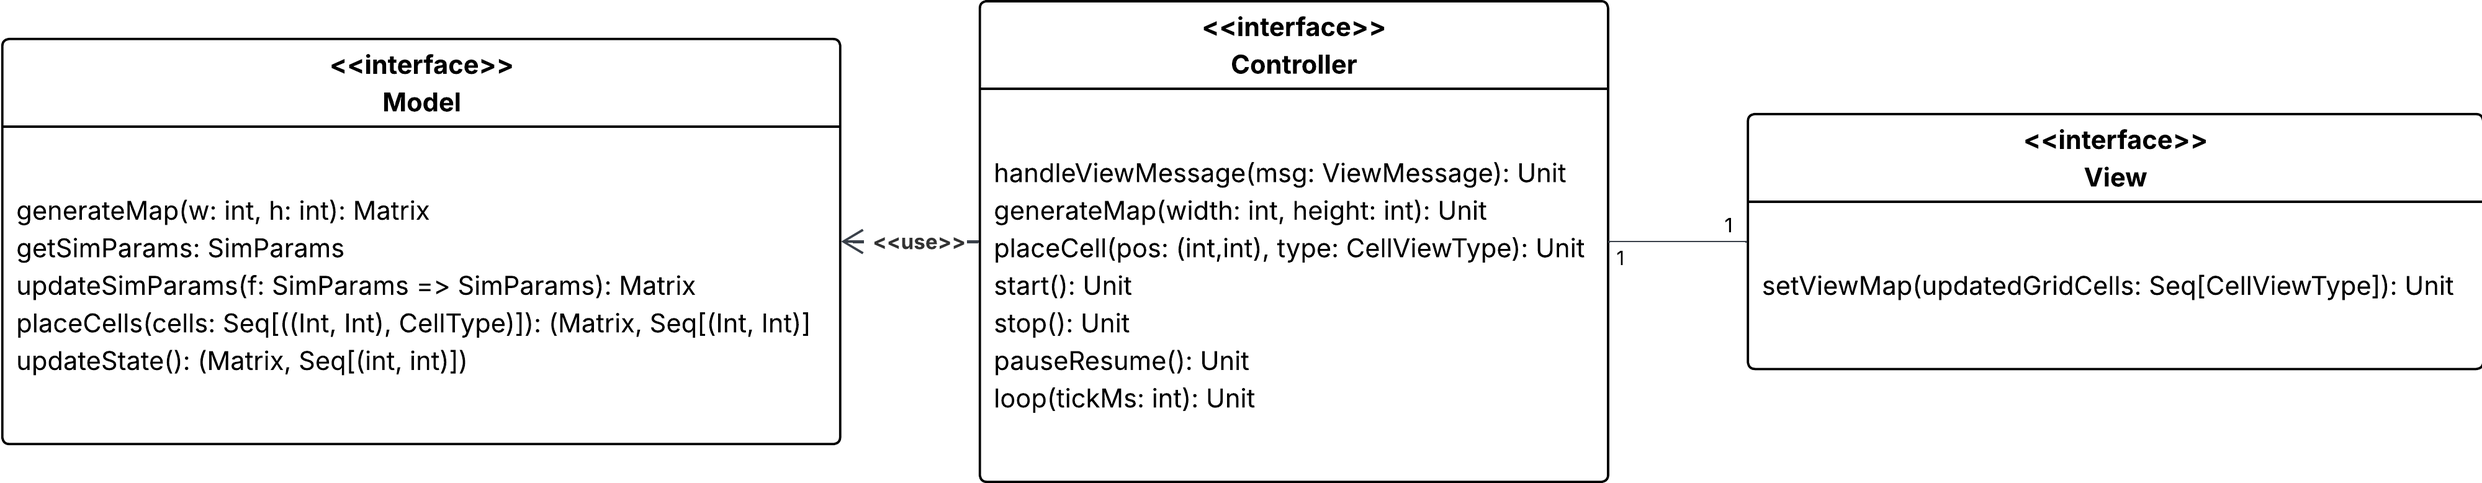
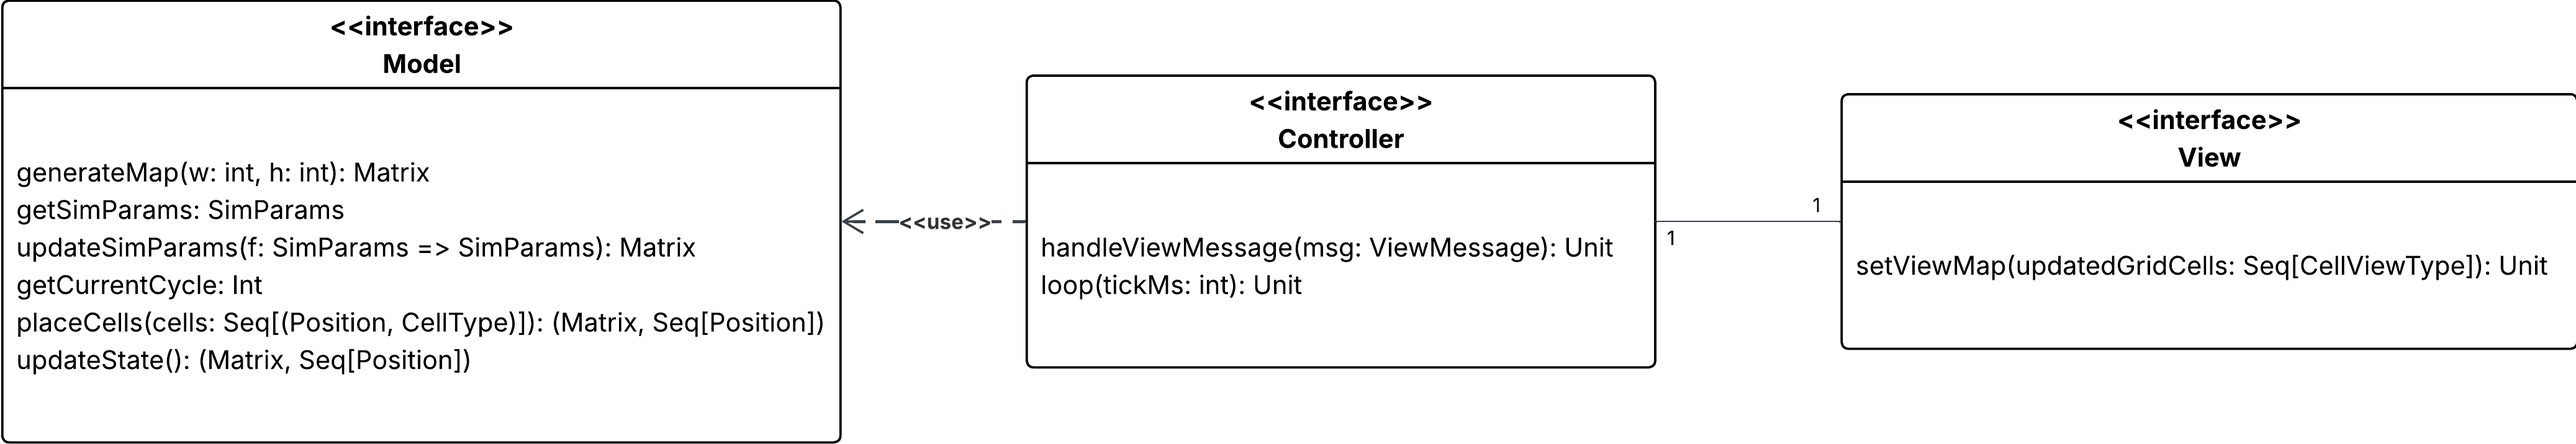
docs: UML + review

diff --git a/2-requirements/index.md b/2-requirements/index.md
@@ -4,8 +4,8 @@
    L'obiettivo è creare un simulatore configurabile e visivamente intuitivo per analizzare la dinamica degli incendi boschivi.
    Il software deve servire come strumento educativo e di analisi, permettendo di comprendere l'impatto di variabili ambientali e strategie di contrasto sulla propagazione di un incendio.
 
-   Il modello deve permettere l’osservazione dell’evoluzione dell’incendio in una foresta semplificata, sotto l’influenza di parametri ambientali (come vento, temperatura, umidità).
-   Inoltre deve considerare i meccanismi di contrasto quali agenti di intervento contro l’incendio (vigili del fuoco) e possibili linee di frangifuoco definite dall’utente.
+   Il modello deve permettere l’osservazione dell’evoluzione semplificata di un incendio in una foresta, sotto l’influenza di parametri ambientali (come vento, temperatura, umidità).
+   Inoltre deve considerare i meccanismi di contrasto quali i vigili del fuoco contro l’incendio e possibili linee di frangifuoco definite dall’utente.
 
    La mappa generata dovrà essere personalizzabile prima dell'inizio della simulazione, per poter modellare determinati biomi.
    I parametri saranno modificabili anche durante la simulazione, per poter modellare il cambiamento di essi durante la propagazione dell'incendio.
@@ -16,7 +16,7 @@
 ## Modello di dominio
    Il dominio del sistema è composto dai seguenti concetti chiave:
 - Mappa: Una griglia 2D che rappresenta il territorio, composta da celle con tipi di terreno diversi.
-- Cella: L'unità atomica della mappa, rappresenta un tipo di terreno (es. boschivo, roccioso, acqua, in fiamme, bruciato, stazione, ecc.).
+- Cella: L'unità atomica della mappa, rappresenta un tipo di terreno (foresta, prato, barriera, stazione, acqua, in fiamme, bruciato, roccia).
 - Agente di contrasto: Un'entità (es. squadra di pompieri) che si muove sulla mappa partendo da una stazione per estinguere le celle in fiamme più vicine.
 - Parametri di simulazione: L'insieme delle variabili che influenzano la simulazione, tra cui vento (intensità e direzione), umidità e temperatura.
 
@@ -27,74 +27,91 @@
    1. Base rocciosa
    2. Cluster di tipo foresta per simulare gruppi di alberi (minimo 1)
    3. Contorni di tipo erba attorno alle foreste
-   4. Cluster di tipo acqua per simulare laghi
-   5. Stazioni che preferibilmente si ergono su terreni di tipo roccioso (minimo 1)
-3. Possibilità di ridimensionare la finestra GUI
-4. Personalizzazione della mappa generata prima dell'inizio della simulazione
-   1. Componenti UI che permettono la scelta del tipo di terreno da piazzare
+   4. Cluster di tipo acqua per simulare laghi (minimo 1)
+   5. Percorsi di tipo acqua per simulare fiumi (minimo 1)
+      1. Partendo dal centro dei laghi fino a toccare il bordo della mappa
+      2. Cambiando casualmente direzione e larghezza per creare forme verosimili
+   6. Stazioni che preferibilmente si ergono su terreni di tipo roccioso (minimo 1)
+3. Possibilità di ridimensionare la finestra GUI; la mappa si ridimensionerà dinamicamente
+4. Personalizzazione della mappa generata
+   1. Componente UI che permette la scelta del tipo di terreno da piazzare
+      1. Prima dell'inizio della simulazione i tipi di terreno: in fiamme, barriera, foresta, prato, roccia, acqua e stazione 
+      2. Dopo l'inizio della simulazione i tipi di terreno: in fiamme e barriera
    2. Utilizzo di strumenti di disegno
       1. Default: modifica di una singola cella tramite click
-      2. Strumento "linea": modifica di più celle su una linea (orizzontale, verticale o obliqua) dopo averne selezionato i 2 estremi
-      3. Strumento "pennello": Strumento "pennello": dopo il primo clic, modifica tutte le celle su cui passa il puntatore, fino a un secondo clic che disattiva lo strumento
+      2. Strumento "linea": modifica di più celle su una linea (orizzontale, verticale od obliqua) dopo averne selezionato i 2 estremi
+      3. Strumento "pennello": modifica tutte le celle su cui passa il puntatore con il click del mouse tenuto premuto
+   3. Quando l'utente seleziona uno strumento di disegno, gli altri devono essere disattivati e non selezionabili
 5. Personalizzazione dei parametri prima dell'inizio e durante la simulazione (direzione e intensità del vento, umidità, temperatura)
-6. Possibilità di avviare, mettere in pausa, riprendere e fermare la simulazione
-7. Rappresentazione grafica della simulazione in griglia 2D
+   1. Ogni parametro avrà uno slider dedicato, con accanto indicato il valore selezionato, modificabile in qualsiasi momento dall'utente
+6. Controlli per gestire il flusso temporale della simulazione
+   1. Un selettore per modificare della velocità (0.5x, 1x, 1.5x, 2x)
+   2. Un bottone per avviare la simulazione
+   3. Un bottone per mettere in pausa e riprendere la simulazione, in cui cambierà il testo a seconda dello stato attuale
+7. Quando la simulazione non è stata ancora avviata, i tasti per fermare/riprendere la simulazione e il selettore di velocità devono essere disattivati
+8. Quando la simulazione è avviata, il tasto per avviare la simulazione deve essere disattivato
+9. Rappresentazione grafica della simulazione in griglia 2D
    1. Rappresentazione dei diversi tipi di terreno con un determinato colore
-   2. Gli agenti di contrasto sono rappresentati anch'essi con un colore caratteristico, che sovrascrive il colore della cella su cui è posizionato
-8. Controllo del flusso temporale della simulazione (0.5x, 1x, 1.5x, 2x)
-9. Rappresentazione della corretta diffusione del fuoco
-   1. Solo i tipi di terreno infiammabili (boschivo, erboso) possono diventare _in fiamme_
-   2. Una cella che diventa _in fiamme_ ha 3 stadi del fuoco
-      1.  Si ha un primo stadio di ignezione in cui la probabilità di infuocare un'altra è abbastanza bassa
-      2.  Il secondo stadio è quello in cui il fuoco è più vivo ed ha una maggiore probabilità di infuocare
-         un'altra cella
-      3. L'ultimo stadio è quello in cui il fuoco ha meno probabilità di infuocare una cella vicina 
-   4. Dopo un certo tempo, una cella _in fiamme_ diventa bruciata senza possibilità di bruciare nuovamente
-      1. Il tipo di terreno boschivo brucierà più a lungo ma prenderà fuoco più difficilmente
-      2. Il tipo di terreno erboso brucierà per meno tempo ma prenderà fuoco più facilmente
-   5. All'aumentare della temperatura, la diffusione sarà più veloce
-   6. All'aumentare dell'umidità, la diffusione sarà più lenta
-   7. All'aumentare dei vicini in fiamme, aumentà la probabilità di prendere fuoco
-   8. All'aumentare dell'intensità del vento, la diffusione del fuoco sarà maggiore nella direzione del vento
-10. Le squadre di pompieri:
-    1. Si muovono verso celle infuocate che hanno attorno celle erboste o foreste, con l'obiettivo di proteggerle, dando la priorità a quelle più vicino alla loro stazione
-    2. Si muovono su tutta la mappa senza vincoli, in modo realistico seguendo visivamente la diagonale tra il punto in cui si trovano e l'obiettivo 
-    3. Una volta raggiunto l'obiettivo, spengono tutte le celle nell'intorno di quella su cui si trovano, a seconda del loro raggio di azione, consumando le proprie risorse
-    4. Dopo aver agito, le squadre di pompieri ritornano alla propria stazione per rifornirsi
+   2. I vigili di fuoco sono rappresentati anch'essi con uno specifico colore, che sovrascrive il colore della cella su cui è posizionato
+10. Rappresentazione della corretta diffusione del fuoco
+    1. Solo i tipi di terreno infiammabili (boschivo, erboso) possono diventare _in fiamme_
+    2. Una cella che diventa _in fiamme_ ha 3 stadi del fuoco
+       1.  Si ha un primo stadio di ignizione in cui la probabilità di infuocare un'altra è abbastanza bassa
+       2.  Il secondo stadio è quello in cui il fuoco è più vivo ed ha una maggiore probabilità di infuocare
+          un'altra cella
+       3. L'ultimo stadio è quello in cui il fuoco ha meno probabilità di infuocare una cella vicina 
+    3. Dopo un certo tempo, una cella _in fiamme_ diventa bruciata senza possibilità di bruciare nuovamente
+       1. Il tipo di terreno boschivo brucerà più a lungo ma prenderà fuoco più difficilmente
+       2. Il tipo di terreno erboso brucerà per meno tempo ma prenderà fuoco più facilmente
+    4. All'aumentare della temperatura, la diffusione sarà più veloce
+    5. All'aumentare dell'umidità, la diffusione sarà più lenta
+    6. All'aumentare dei vicini in fiamme, aumentà la probabilità di prendere fuoco
+    7. All'aumentare dell'intensità del vento, la diffusione del fuoco sarà maggiore nella direzione del vento
+11. Ogni cella stazione avrà un vigile del fuoco, adibito alla protezione dell'area circostante
+12. I vigili del fuoco:
+    1. Si muovono verso celle infuocate che hanno attorno celle erbose o foreste, con l'obiettivo di proteggerle, dando la priorità a quelle più vicine alla loro stazione
+    2. Si muovono su tutta la mappa senza vincoli (come unità aeree), seguendo visivamente la diagonale tra il punto in cui si trovano e l'obiettivo 
+    3. Si muovono indipendentemente, ognuno dando la priorità al terreno attorno alla sua stazione
+    4. Una volta raggiunto l'obiettivo, spengono tutte le celle nell'intorno di quella su cui si trovano, a seconda del loro raggio di azione, consumando le proprie risorse
+    5. Dopo aver agito, i vigili del fuoco ritornano alla propria stazione per rifornirsi
+    6. Se non sono presenti celle infuocate, ritornano alla propria stazione
 
 ### Sistema
 
 1. Generazione randomica della mappa a partire dalle dimensioni fornite
-   1. Limite inferiore per garantire i vincoli della generazione (minimo 1 foresta e 1 stazione)
+   1. Limite inferiore per garantire i vincoli della generazione (minimo 1 foresta, 1 stazione e 1 zona d'acqua)
    2. Limite superiore per poter mostrare correttamente la mappa nella sua interezza
+   3. Generazione di seeds per i vari tipi di terreno e sparsi nella mappa
+   4. Crescita dei cluster probabilistica a partire dai seed
+   5. Algoritmi di path finding con modifica casuale di direzione e larghezza per costruire fiumi realistici
 2. Propagazione del fuoco basandosi su un modello probabilistico e controllando le celle adiacenti a quelle _in fiamme_
    1. Esclusione delle celle non infiammabili
    2. Modifica della probabilità a seconda del tipo di terreno
    3. Modifica della probabilità a seconda dei parametri
 3. Utilizzo di un contatore interno per trasformare le celle _in fiamme_ in _bruciate_ dopo un certo tempo
-4. Gli agenti:
-   1. Si muovono a passi unitari, spostandosi in una delle 8-celle nell'intorno della posizione attuale (o restando fermi in caso non vi siano celle in fiamme)
-   2. Il movimento segue un algoritmo di rasterizzazione.
-   3. Si muovono verso la cella infuocata (con attorno celle erboste o foreste) più vicina alla propria stazione
-   4. Durante il movimento di un agente, l'obiettivo viene cambiato in caso celle infuocate più vicine alla stazione prendano fuoco
+4. I vigili del fuoco:
+   1. Si muovono a passi unitari, spostandosi in una delle 8-celle nell'intorno della posizione attuale
+   2. Il movimento segue un algoritmo di rasterizzazione
+   3. Partendo dalla stazione, si muovono verso la cella infuocata (con attorno celle erbose o foreste) più vicina alla propria stazione
+   4. Durante il movimento di un vigile del fuoco, l'obiettivo può essere cambiato dinamicamente in caso celle infuocate vicine alla stazione o alla posizione attuale prendano fuoco
 5. Le linee piazzate dall'utente seguono un algoritmo di rasterizzazione
 
 ## Requisiti non funzionali
 
-1. Performance: La simulazione deve essere fluida (almneno 30 TPS) su una mappa di dimensioni standard (almeno 100x100 celle) con un numero moderato di agenti.
-Requisiti minimi di 4GB di RAM, CPU Quad Core da 3.6 GHz
-2. Usabilità: L'interfaccia grafica (GUI) deve essere minimale ma intuitiva, permettendo un facile accesso a tutte le funzionalità di controllo della simulazione
-3. GUI reattiva
+1. Performance: La simulazione deve essere fluida (almeno 30 TPS) su una mappa di dimensioni standard (almeno 100x100 celle) 
+con un numero moderato di agenti (requisiti minimi: 4GB di RAM, CPU Quad Core da 3.6 GHz).
+2. Usabilità: L'interfaccia grafica (GUI) sarà minimale 
+3. GUI intuitiva per cui l'utente potrà fin da subito capire facilmente tutte le funzionalità di controllo della simulazione
+4. GUI reattiva senza grossi lag o delay tra input dell'utente e output a schermo
 
 ## Requisiti di implementazione
-1. Il progetto dovrà essere espandibile e modulare, permettendo l’aggiunta di ulteriori funzionalità
+1. Il progetto dovrà essere espandibile e modulare, facilitando l’aggiunta di ulteriori funzionalità
 2. Si dovrà garantire una separazione tra logica e interfaccia utente per agevolare future modifiche a queste, per cui il progetto seguirà il pattern MVC (Model-View-Controller)
 3. Il progetto sarà sviluppato interamente in Scala e testato con Scalatest 
 4. Si utilizzerà Swing per la creazione dell'interfaccia grafica
-5. Si seguierà il TDD (Test Driven Development)
+5. Si seguirà il TDD (Test Driven Development)
 6. Si userà Scalafix e Scala Formatter per controllare e mantenere uniformità nel codice.
-
-[//]: # (7. Si userà SCoverage per monitorare la copertura dei test. )
+7. Si userà SCoverage per monitorare la copertura dei test.
 
 
 [Indice](../index.md) |

diff --git a/4-design/index.md b/4-design/index.md
@@ -13,30 +13,47 @@ Controller e model sono stati pensati per gestire in modo ottimale i vari stati 
 
 
 ## Controller
-Il motore della simulazione è contenuto nella classe `SimController`, che gestisce il loop della simulazione. In questa classe sono mantenuti i parametri modificabili dall'utente tramite l'interfaccia grafica, come i parametri quali umidità, direzione e intensità del vento e temperatura. Nel momento in cui l'utente imposta le dimensioni della mappa il controller reagisce ordinando al model la generazione della mappa, che poi verrà renderizzata dalla view. L'utente, attraverso l'interfaccia grafica, può modificare celle della mappa dinamicamente, sia mentre la simulazione è in corso che nella fase precedente, utilizzata per definire la struttura della mappa. Ogni tipologia di cella è identificata da un'enumerazione sia nella view (`CellViewType`) che nel model (`CellType`), mantenute separate per garantire un isolamente tra view e model. Il controller, attraverso `CellTypeConverter` che si occupa di svolgere la conversione nel passaggio di informazioni tra view e model. Mentre la simulazione è in corso, il controller innesca aggiornamenti del model ad intervalli regolari; esso si occupa anche di ricevere e salvare temporaneamente gli input dell'utente, che verranno poi applicati all'aggiornamento successivo del model. Questo approccio alla ricezione di input permette di evitare inconsistenze dovute alla modifica di parametri nel model mentre un aggiornamento è in atto.
+Il motore della simulazione è contenuto nella classe `SimController`, che gestisce il main loop.
+In questa classe sono contenuti i metodi per permettere la modifica dei parametri da parte dell'utente tramite l'interfaccia grafica, quali umidità, direzione e intensità del vento e temperatura.
+Il cambiamento dei parametri avviene istantaneamente nel model, ma all'inizio di ogni avanzamento della simulazione il model salva una copia di questi parametri per evitare inconsistenze.
+Nel momento in cui l'utente imposta le dimensioni della mappa il controller reagisce ordinandone al model la generazione, per poi ordinare alla view di mostrarla.
+Attraverso l'interfaccia grafica, l'utente può modificare celle della mappa dinamicamente, sia prima dell'inizio che durante il corso della simulazione.
+Ogni tipologia di cella è identificata da un'enumerazione sia nella view (`CellViewType`) che nel model (`CellType`), mantenute separate per garantire isolamento.
+Il controller, attraverso `CellTypeConverter` si occupa di svolgere la conversione nel passaggio di informazioni tra view e model.
+Mentre la simulazione è in corso, il controller innesca aggiornamenti del model ad intervalli regolari.
+Inoltre si occupa di ricevere e mettere in coda le celle cambiate dall'utente nella personalizzazione della mappa.
+Queste celle verranno poi notificate al model prima dell'aggiornamento successivo.
+Questo approccio all'aggiornamento della mappa asincrono permette di evitare inconsistenze nel model mentre la simulazione sta avanzando.
 
-<!-- TODO: viene effettivamente  utilizzato? -->
-La comunicazione con la view avviene tramite il trait `ViewMessage`. Grazie al `Command Pattern`, la view può gestire in modo uniforme diversi tipi di input, come pulsanti per mettere in pausa o resettare la simulazione, o modifiche dei parametri. In questo modo, la view non chiama direttamente i metodi del controller, garantendo un disaccoppiamento chiaro e sicuro.
+La comunicazione con la view avviene utilizzando il trait `ViewMessage`.
+Grazie al `Command Pattern`, la view può gestire in modo uniforme diversi tipi di input, come pulsanti per mettere in pausa o resettare la simulazione, o modifiche dei parametri.
+In questo modo, la view non chiama direttamente i metodi del controller, garantendo un disaccoppiamento chiaro e sicuro.
 
 ## Model
-La mappa della simulazione è rappresentata attraverso una matrice di `CellType`. Quando l'utente sceglie le dimensioni della mappa una prima mappa è generata casualmente, inserendo aree boschive, laghi, aree erbose e stazioni dei pompieri. L'algoritmo di generazione della mappa è definito nella classe `MapBuilder`, che attraverso il pattern builder permette di generare la mappa dividendo le varie fasi dell'algoritmo (come la generazione di laghi, foreste ed aree erbose) ed evitando di avere un unico metodo monolitico. Il pattern builder è applicato anche ai pompieri, che vengono creati specificando il raggio di azione e la stazione in cui sono posizionati separatamente.
+La mappa della simulazione è rappresentata attraverso una matrice di `CellType`.
+Quando l'utente sceglie le dimensioni della mappa questa viene generata casualmente, inserendo aree boschive, rocciose, erbose, ma anche laghi, fiumi e stazioni dei pompieri.
+L'algoritmo di generazione della mappa è definito nella classe `MapBuilder`, che attraverso il pattern builder permette di generare la mappa dividendo le varie fasi dell'algoritmo (come la generazione di laghi, foreste ed aree erbose) ed evitando di avere un unico metodo monolitico. 
+Per ogni stazione presente nella mappa generata, vengono creati i vigili del fuoco specificando il raggio di azione e la stazione in cui sono posizionati separatamente, seguendo il pattern builder.
 
 Ogni ciclo di aggiornamento del model consiste in svariati passaggi:
-- Aggiornamento dei parametri ricevuti dal controller
-- Aggiornamento delle celle infuocate tramite l'algoritmo di diffusione del fuoco
+- Copia dei parametri di simulazione aggiornati dal controller
+- Aggiornamento delle celle infuocate e autonomamente spente tramite l'algoritmo di diffusione del fuoco
 - Aggiornamento della posizione dei vigili del fuoco e delle eventuali celle infuocate da loro spente
 
-I pompieri sono modellati come record monadici immutabili tramite la case class `FireFighter`, che vengono aggiornati sulla base delle celle infuocate correnti. Vi è la possibilità che una cella infuocata sia circondata da altre celle che non possono prendere fuoco (come celle già bruciate); in questi casi i vigili del fuoco dovrebbero ignorarle per dirigersi verso celle circondate da altre a rischio di incendio. Per gestire questo edge case i vigili del fuoco considerano solo queste ultime nella decisione delle loro azioni.  
+I pompieri sono modellati come record immutabili tramite la case class `FireFighter`, che vengono aggiornati sulla base delle celle infuocate correnti.
+Vi è la possibilità che una cella infuocata sia circondata da altre celle che non possono prendere fuoco (come celle già bruciate); in questi casi i vigili del fuoco dovrebbero ignorarle per dirigersi verso celle circondate da altre a rischio di incendio.
+Per gestire questo edge case i vigili del fuoco considerano solo queste ultime nella decisione delle loro azioni.  
 
-Ogni cella della griglia possiede una probabilità di accensione che dipende dal tipo di vegetazione associata(`Vegetation`). La propagazione del fuoco è modellata tramite più stadi di combustione rappresentati dall’enumerazione `FireStage` che vanno a differenziare la probabilità di incendiare una cella adiacente. 
+Ogni cella della griglia possiede una probabilità di accensione che dipende dal tipo di vegetazione associata(`Vegetation`).
+La propagazione del fuoco è modellata tramite più stadi di combustione rappresentati dall’enumerazione `FireStage` che vanno a differenziare la probabilità di incendiare una cella adiacente. 
 
-Il cuore del sistema della diffusione del fuoco è la funzione `fireSpread`, che ad ogni ciclo della simulazione calcola l'evoluzione della griglia. Questo processo è suddiviso in due fasi principali:
-- Aggiornamento delle celle in fiamme. Per ogni cella in combustione si verifica se la cella deve spegnersi attraverso l'uilizzo della `BurnDurationPolicy` che viene passata. Se la cella continua a bruciare, si controlla se può cambiare stadio di fuoco.
-- Propagazione verso i vicini. Per ogni cella vengono analizzati i vicini e viene prima calcolata la loro probabilità di igniezione attraverso una funzione `ProbabilityCalc`. La probabilità base può essere arricchita dinamicamente con effetti aggiuntivi, come vento o vicinanza a corpi d’acqua in direzione del vento, grazie a funzioni decorator che estendono il comportamento senza modificare la funzione originale.
+Il cuore del sistema della diffusione del fuoco è la funzione `fireSpread`, che ad ogni ciclo della simulazione calcola l'evoluzione della griglia.
+Questo processo è suddiviso in due fasi principali:
+- Aggiornamento delle celle in fiamme. Per ogni cella in combustione si verifica se la cella deve spegnersi attraverso l'utilizzo della `BurnDurationPolicy` che viene passata. Se la cella continua a bruciare, si controlla se può cambiare stadio di fuoco.
+- Propagazione verso i vicini. Per ogni cella vengono analizzati i vicini e viene prima calcolata la loro probabilità di ignizione attraverso una funzione `ProbabilityCalc`. La probabilità base può essere arricchita dinamicamente con effetti aggiuntivi, come vento o vicinanza a corpi d’acqua in direzione del vento, grazie a funzioni decorator che estendono il comportamento senza modificare la funzione originale.
 
 ## View
-L'interfaccia grafica mostra la mappa della simulazione aggiornata in tempo reale, con celle colorate con diversi colori a seconda del loro tipo o dell'entità che vi è posizionata.
-In particolare:
+L'interfaccia grafica mostra la mappa della simulazione aggiornata in tempo reale, convertendo i `CellViewType` offerti dal controller con celle colorate a seconda del tipo:
 - Rosso per il fuoco
 - Verde per le aree boschive
 - Verde chiaro per le aree erbose
@@ -49,27 +66,31 @@ L'utente ha a disposizione vari controlli per gestire lo stato di avanzamento de
 
 L'utente ha la possibilità di modificare celle della mappa selezionando il tipo di cella da inserire tramite una scelta multipla (che cambia dinamicamente nel momento in cui si comincia la simulazione) e cliccando sulla cella interessata. 
 
-Poiché l'applicazione prevede una fase iniziale di modifica della mappa, vi sono strumenti che permettono la modifica di molteplici celle della mappa, come uno strumento pennello per calorare le celle su cui passa il puntatore o uno strumento linea che permette di colorare una linea tra due punti, anche diagonale. 
+Poiché l'applicazione prevede una fase iniziale di modifica della mappa, vi sono strumenti che permettono la modifica di molteplici celle della mappa, come uno strumento pennello per colorare le celle su cui passa il puntatore o uno strumento linea che permette di colorare una linea tra due punti, anche diagonale. 
 
 
 ## Pattern di progettazione
 
-### Factory
-Il pattern factory è stato utilizzato in quanto supportato facilmente dai companion object, tramite i quali è possibile creare istanze in modo idiomatico nascondendo la complessità del processo di creazione.
-
 ### Strategy
-Il pattern strategy è stato utilizzando all'interno di `FireFighter` per separare l'algoritmo di movimento dal resto della classe e anche in `FireSpread` per separare il calcolo della probabilità di ignizione e della durata di combustione di una cella dal resto dell'avanzamento della gestione del fuoco.
+Il pattern strategy è stato utilizzato:
+ - All'interno di `FireFighter` per separare l'algoritmo di movimento dal resto della classe
+ - In `FireSpread` per separare il calcolo della probabilità di ignizione e della durata di combustione di una cella dal resto dell'avanzamento della gestione del fuoco
+ - In `SimModel` per separare l'algoritmo di generazione della mappa e per facilitare lo sviluppo di algoritmi diversi da quello base, come mostrato nell'UML di seguito:
+
+![Esempio di utilizzo di pattern strategy](../img/strategy.png)
+
 
 ### Builder
-Il pattern builder è stato utilizzato per facilitare la creazione di `FireFighter`, la generazione della mappa nel `SimModel` e per comporre la funzione per il calcolo della probabilità di igniezione di una cella.
+Il pattern builder è stato utilizzato:
+ - Per facilitare la creazione di `FireFighter`
+ - Per facilitare la generazione della mappa nel `SimModel`
+ - Per comporre la funzione di calcolo della probabilità di ignizione di una cella
 
 ### Command
 Il pattern command è stato utilizzato nel controller per gestire la ricezione di input dalla view.
 
 ### Decorator
 Il pattern Decorator è stato utilizzato per estendere la strategia di base del calcolo della propagazione del fuoco, aggiungendo effetti supplementari.
-
-
 
 ## Organizzazione del codice
 Il codice è stato suddiviso in package raggruppando i sorgenti che implementano una stessa feature. La divisione scelta si può vedere nella figura sottostante.
